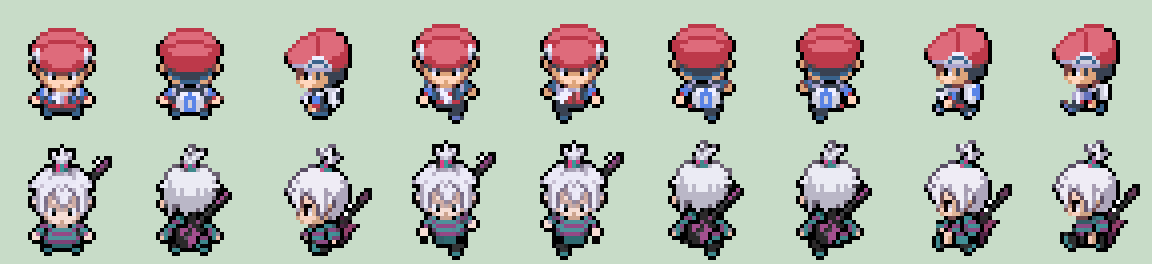
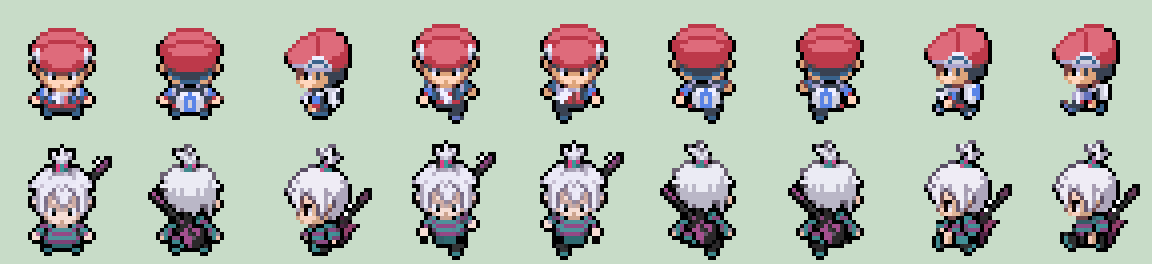
Mirror Roxie's back walking frames so the guitar neck is on the correct side

diff --git a/assets_src/leg_fit/ow/backmirror.py b/assets_src/leg_fit/ow/backmirror.py
@@ -1,0 +1,19 @@
+"""backmirror.py OW9_STRIP OUT_PREFIX
+Roxie: the guitar neck in the back frames has to stick out on the other side (from behind
+his left shoulder shows on the left). Back frames are mirrored and moved 1px back so the body
+stays where it was: new 1 = mirror(1), new 5 = mirror(6), new 6 = mirror(5) (mirroring swaps
+which foot steps, so 5 and 6 swap to keep the base step order).
+Writes OUT_PREFIX_ow9.png and OUT_PREFIX_ow.png (0,1,2,3,5,7)."""
+import sys
+from PIL import Image, ImageOps
+s = Image.open(sys.argv[1]).convert('RGBA'); out = sys.argv[2]
+F = [s.crop((i * 32, 0, i * 32 + 32, 32)) for i in range(9)]
+def mir(im):
+    m = ImageOps.mirror(im); o = Image.new('RGBA', (32, 32)); o.paste(m, (-1, 0), m); return o
+F[1], F[5], F[6] = mir(F[1]), mir(F[6]), mir(F[5])
+o = Image.new('RGBA', (288, 32))
+for i, f in enumerate(F): o.alpha_composite(f, (i * 32, 0))
+o.save(out + '_ow9.png')
+v = Image.new('RGBA', (32, 192))
+for j, i in enumerate([0, 1, 2, 3, 5, 7]): v.alpha_composite(F[i], (0, j * 32))
+v.save(out + '_ow.png')

diff --git a/assets_src/leg_fit/ow/METHOD.md b/assets_src/leg_fit/ow/METHOD.md
@@ -25,3 +25,7 @@ always raise the body 1px in walk frames (Bruno, Roxie) and redrew parts of the 
 feet kept in place, and uses the standing frame's head (rows < 19) so the head moves as one piece:
 
     python3 bobfix.py ../../../gym/img/fit/ow9/lf_bruno_m.png OUT/lf_bruno_m
+
+Roxie back guitar (2026-11-21, 경완 '보미카 뒷모습 기타 방향 반대'): back frames mirrored with
+`backmirror.py` (new 1 = mirror 1, 5 = mirror 6, 6 = mirror 5, moved 1px back) so the neck shows
+on the left from behind, matching the right side from the front.
